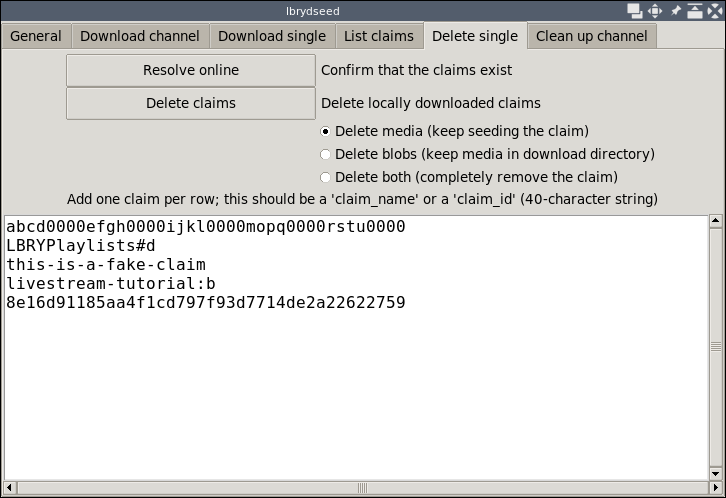
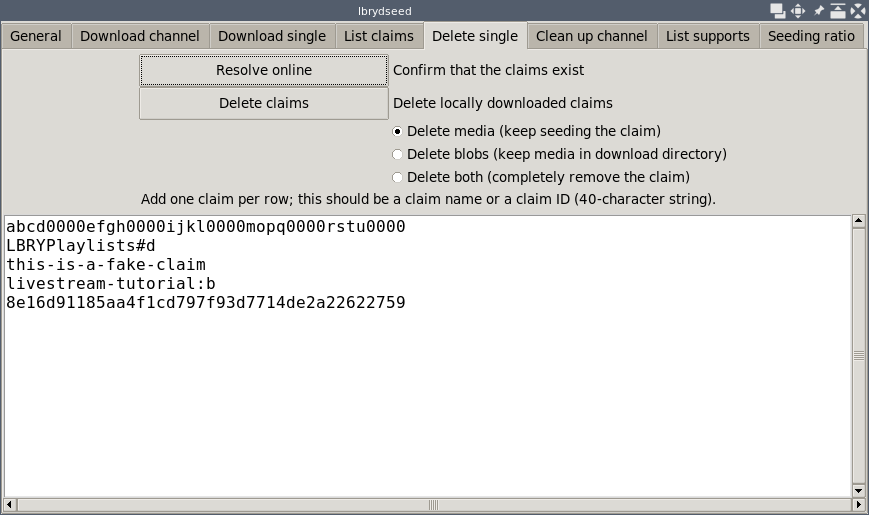
README.md: update the readme with latest information
The installation instructions were rewritten to be simpler.
The program is basically ready to execute.
Moving the `lbseed/` and `lbrytools/` directories is not required,
it's entirely optional.

The example images were updated.

Changed region(s): [[0.0, 0.0, 1.0, 1.0], [0.0909, 0.2108, 0.1212, 0.241]]

diff --git a/README.md b/README.md
@@ -2,6 +2,9 @@
 
 This is a simple graphical interface that allows us
 to download the latest claims from a list of channels in the LBRY network.
+We can also do other operations like deleting individual claims,
+cleaning up claims from channels, listing all downloaded claims,
+showing our supports, and estimating our seeding ratio.
 
 It uses the [lbrytools](https://github.com/belikor/lbrytools) library
 to add more functionality to the basic `lbrynet` daemon.
@@ -19,11 +22,33 @@ Get them from [lbry.com/get](https://lbry.com/get).
 
 You must also have the [lbrytools](https://github.com/belikor/lbrytools/lbrytools)
 library (the internal `lbrytools/` directory that has the `__init__.py`).
-You can download that repository manually, or you can clone this repository
-with an option to download submodules:
+
+Clone this repository with `--recurse-submodules` to include `lbrytools`
+with the rest of the code:
 ```sh
 git clone --recurse-submodules https://github.com/belikor/lbrydseed
 ```
+
+After cloning you should have the following structure:
+```
+lbrydseed/
+    dseed.py
+    lbrytools/
+    lbseed/
+```
+
+You can run the `dseed.py` program where it is.
+```sh
+python dseed.py
+```
+
+If you place `dseed.py` somewhere else, make sure it is always
+next to `lbrytools/` and `lbseed/`.
+
+### System wide installation
+
+This is optional, and only required if you want to have the libraries
+available in your entire system.
 
 Copy the `lbrytools` directory (the one with an `__init__.py`)
 and the [`lbseed`](./lbseed) directory (also with an `__init__.py`),
@@ -41,9 +66,13 @@ or in a system-wide directory:
 /usr/lib/python3/dist-packages/lbseed
 ```
 
-You can also modify the `PYTHONPATH` environmental variable
-to include the parent directory where `lbseed` and `lbrytools`
-are located.
+Then place `dseed.py` wherever you want, and run it from there.
+
+### Environmental variables
+
+This is optional. Instead of moving the `lbrytools` and `lbseed` libraries,
+simply add them to the `PYTHONPATH` environmental variable.
+We must add the parent directory containing these libraries.
 For example, if
 ```
 /top1/
@@ -57,20 +86,10 @@ The variable will be
 PYTHONPATH="/top1:/top2/pkg:$PYTHONPATH"
 ```
 
-These libraries were developed and tested with Python 3.8 but they may also work with
-earlier versions with small changes.
-It uses standard modules such as `importlib`, `os`, `random`, `requests`,
-`sys`, and `time`.
+### Optional
 
-You can run the `dseed.py` program where it is, or place it wherever you want.
-If you want to keep everything contained, make sure `dseed.py`
-is always next to `lbrytools` and `lbseed`.
-```
-toplevel/
-    dseed.py
-    lbrytools/
-    lbseed/
-```
+The Matplotlib library is optional, and only needed
+to plot the histograms in the `"Seeding ratio"` page.
 
 ## Setuptools
 
@@ -119,6 +138,16 @@ Enter the name of the channels, and a number of claims to keep for each,
 then press `"Clean up claims"`.
 
 ![lbryseed cleanup_channel](./g_lbrydseed_cleanup_channel.png)
+
+Press `"List supports"` to show claims that we support with LBC.
+
+![lbryseed_list_supports](./g_lbrydseed_list_supports.png)
+
+Press `"Display seeding ratio"` to show an estimate of the blobs uploaded
+and downloaded.
+
+![lbryseed_seeding](./g_lbrydseed_seeding.png)
+
 
 ## Development
 
